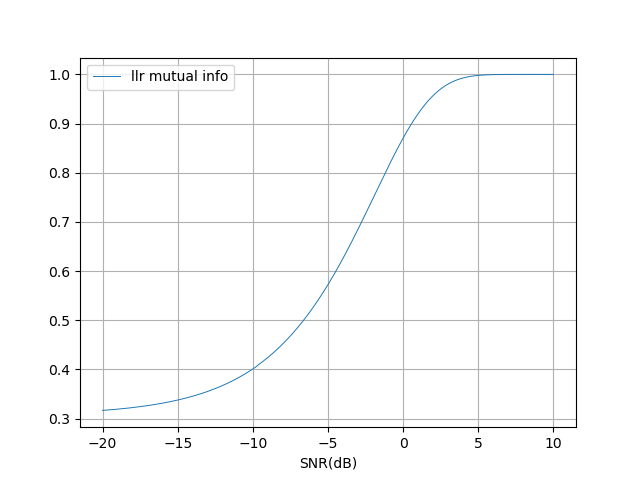
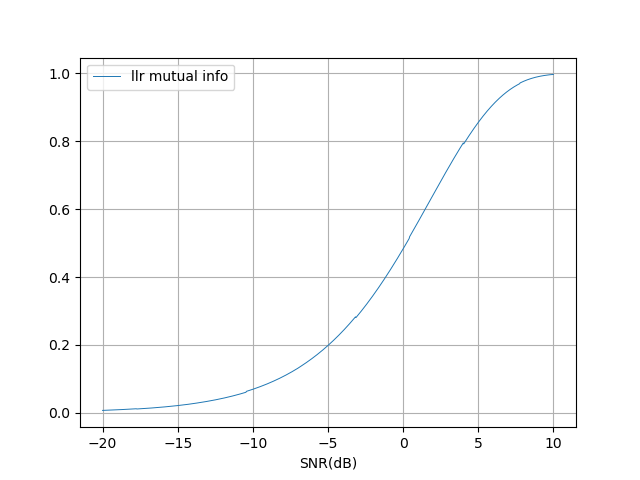
fix expectation and sigma

diff --git a/llr_mutual_info.c b/llr_mutual_info.c
@@ -42,12 +42,12 @@ void AWGNC(double* tx, int tx_size, double* rx, double snr){
     T = gsl_rng_default;
     r = gsl_rng_alloc (T);
     gsl_rng_set(r, time(0));
-    double sigma = sqrt(snr);
+    double sigma = sqrt(1/snr);
     for (int i = 0; i < tx_size; i++)
     {
         rx[i] = tx[i] + gsl_ran_gaussian(r, sigma);
     }
-    printDoubleArray(rx, tx_size);
+    // printDoubleArray(rx, tx_size);
     return;
     
 }
@@ -87,6 +87,7 @@ void Code2LLRWithSNR(int* encode, double* channel_llr, int code_size, double snr
         tx_size = mapping(encode , code_size, tx);
         AWGNC(tx, tx_size, rx, snr);
         tx2LlrForBpsk(rx, code_size, channel_llr, snr);
+        printf("snr = %lf, llr = %lf\n", snr, channel_llr[0]);
     }
     
 }
@@ -158,32 +159,35 @@ void outputPythonPlotFile(double* x, double* y, int size){
 
 int main(int argc, char const *argv[])
 {
-    int sample = 1000;
-    double x_dB[sample];
-    double x[sample];
-    double channel_llr[sample];
-    int code[sample];
-    double y[sample];
-    double capacity[sample];
-    for (int i = 0; i < sample; i++)
+    int sample_snr = 1000;
+    int sample_llr = 100000;
+    double x_dB[sample_snr];
+    double x[sample_snr];
+    double channel_llr[sample_llr];
+    int code[sample_llr];
+    double information[sample_llr];
+    double capacity[sample_snr];
+    for (int i = 0; i < sample_llr; i++)
     {
         code[i] = 0;
     }
 
-    linspace(x_dB, -20, 10, sample);
+    linspace(x_dB, -20, 10, sample_snr);
     // printDoubleArray(x_dB, sample);
-    dB2Linear(x_dB, x, sample);
-    for (int i = 0; i < sample; i++)
+    dB2Linear(x_dB, x, sample_snr);
+    for (int i = 0; i < sample_snr; i++)
     {
-        Code2LLRWithSNR(code, channel_llr, sample, x[i]);
-        y[i] = expectation(channel_llr, sample);
+        Code2LLRWithSNR(code, channel_llr, sample_llr, x[i]);
+        for (int j = 0; j < sample_llr; j++)
+        {
+            information[j] = log2(1+exp(-channel_llr[j]));
+        }
+        // printDoubleArray(information, 5);
+        capacity[i] = 1 - expectation(information, sample_llr);
+        // printf("x[i] = %lf, E[info] = %lf\n", x[i], expectation(information, sample_snr));
     }
-    // printDoubleArray(y, sample);
-    for (int i = 0; i < sample; i++)
-    {
-        capacity[i] = 1 - log(1 + exp(-y[i]));
-    }
-    outputPythonPlotFile(x_dB, capacity, sample);
+    
+    outputPythonPlotFile(x_dB, capacity, sample_snr);
     
 
     return 0;
